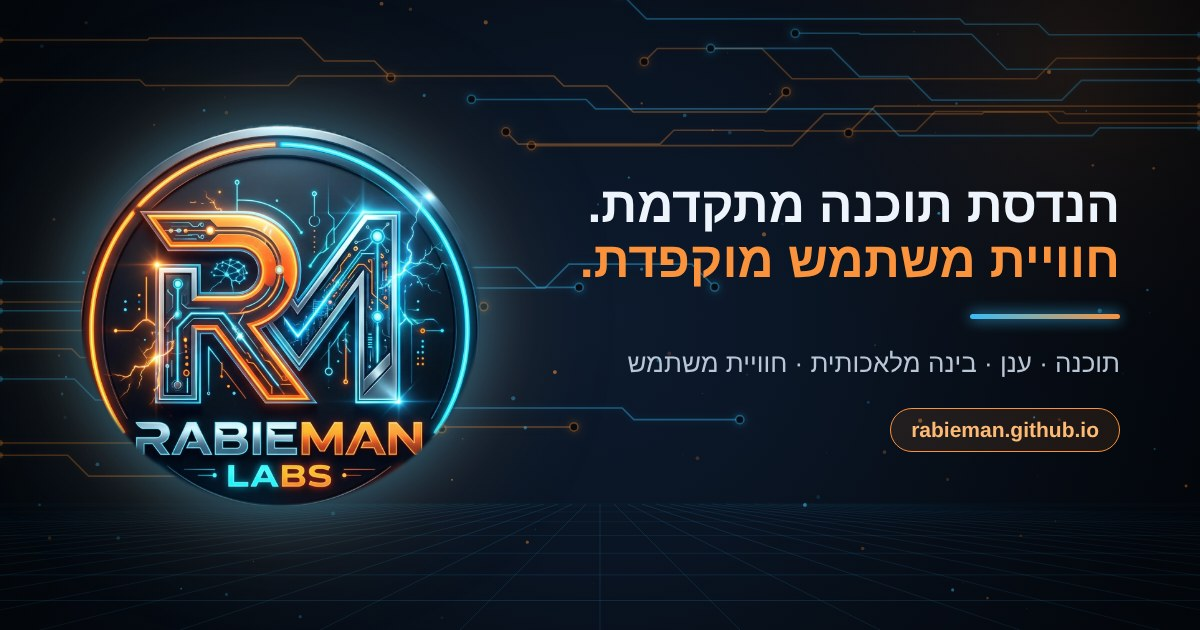
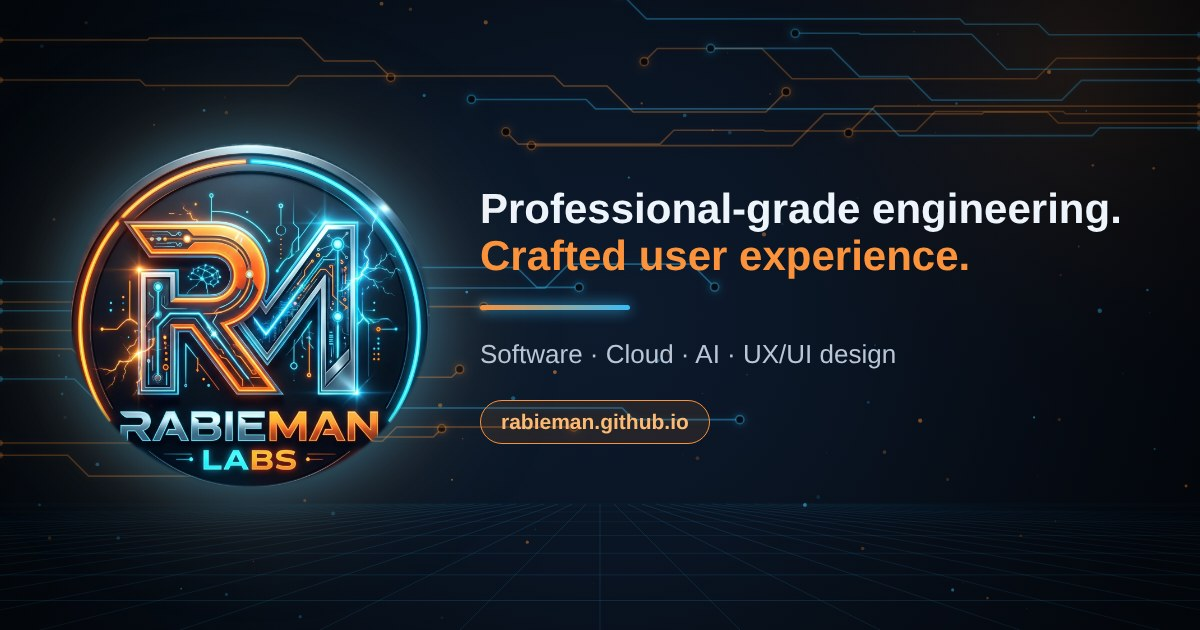
Brand page: English share preview
Claude-Session: https://claude.ai/code/session_01VLMtTTz4Vtd66KQv5Mwdtq

Changed region(s): [[0.0617, 0.181, 0.9558, 0.8143], [0.74, 0.6333, 0.9558, 0.7238]]

diff --git a/index.html b/index.html
@@ -6,18 +6,18 @@
 <title>RabieMan Labs – אפליקציות וכלים חכמים</title>
 <meta property="og:type" content="website">
 <meta property="og:site_name" content="RabieMan Labs">
-<meta property="og:title" content="RabieMan Labs – הנדסת תוכנה מתקדמת. חוויית משתמש מוקפדת.">
-<meta property="og:description" content="הנדסת תוכנה, ארכיטקטורה וענן, בינה מלאכותית ועיצוב חוויית משתמש – מוצרים דיגיטליים בעברית, בערבית ובאנגלית. הבית של AutoPedia ו-TabuMap.">
+<meta property="og:title" content="RabieMan Labs – Professional-grade engineering. Crafted user experience.">
+<meta property="og:description" content="Software engineering, cloud architecture, AI and UX/UI design – digital products in Hebrew, Arabic and English. Home of AutoPedia and TabuMap.">
 <meta property="og:url" content="https://rabieman.github.io/">
-<meta property="og:image" content="https://rabieman.github.io/img/og.jpg?v=1">
+<meta property="og:image" content="https://rabieman.github.io/img/og.jpg?v=2">
 <meta property="og:image:width" content="1200">
 <meta property="og:image:height" content="630">
-<meta property="og:image:alt" content="RabieMan Labs – הנדסת תוכנה מתקדמת. חוויית משתמש מוקפדת.">
-<meta property="og:locale" content="he_IL">
+<meta property="og:image:alt" content="RabieMan Labs – Professional-grade engineering. Crafted user experience.">
+<meta property="og:locale" content="en_US">
 <meta name="twitter:card" content="summary_large_image">
-<meta name="twitter:title" content="RabieMan Labs – הנדסת תוכנה מתקדמת. חוויית משתמש מוקפדת.">
-<meta name="twitter:description" content="הנדסת תוכנה, ארכיטקטורה וענן, בינה מלאכותית ועיצוב חוויית משתמש – מוצרים דיגיטליים בעברית, בערבית ובאנגלית. הבית של AutoPedia ו-TabuMap.">
-<meta name="twitter:image" content="https://rabieman.github.io/img/og.jpg?v=1">
+<meta name="twitter:title" content="RabieMan Labs – Professional-grade engineering. Crafted user experience.">
+<meta name="twitter:description" content="Software engineering, cloud architecture, AI and UX/UI design – digital products in Hebrew, Arabic and English. Home of AutoPedia and TabuMap.">
+<meta name="twitter:image" content="https://rabieman.github.io/img/og.jpg?v=2">
 <meta name="description" content="RabieMan Labs – software engineering, systems architecture, cloud and UX design, turned into practical apps in Hebrew, Arabic and English. Home of AutoPedia and TabuMap.">
 <link rel="icon" href="img/favicon.png">
 <link rel="preconnect" href="https://fonts.googleapis.com">
